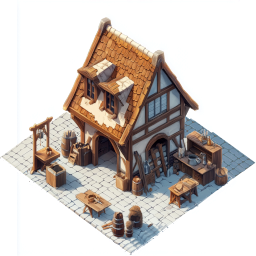
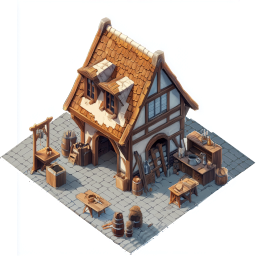
workshop

Changed region(s): [[0.0, 0.4375, 0.875, 1.0], [0.7188, 0.4375, 1.0, 0.7188], [0.25, 0.3438, 0.2812, 0.375]]

diff --git a/lwjgl3/src/main/java/com/medville2/lwjgl3/TextureHelper.java b/lwjgl3/src/main/java/com/medville2/lwjgl3/TextureHelper.java
@@ -38,7 +38,7 @@ public class TextureHelper {
 		images.put("tower", "tower.png");
 		images.put("townsquare", "townsquare.png");
 		images.put("mill", "mill_2.png");
-		images.put("workshop", "workshop_3.png");
+		images.put("workshop", "workshop_4.png");
 		images.put("blacksmith", "blacksmith.png");
 		images.put("wall", "wall_4.png");
 		images.put("grain", "grain.png");
